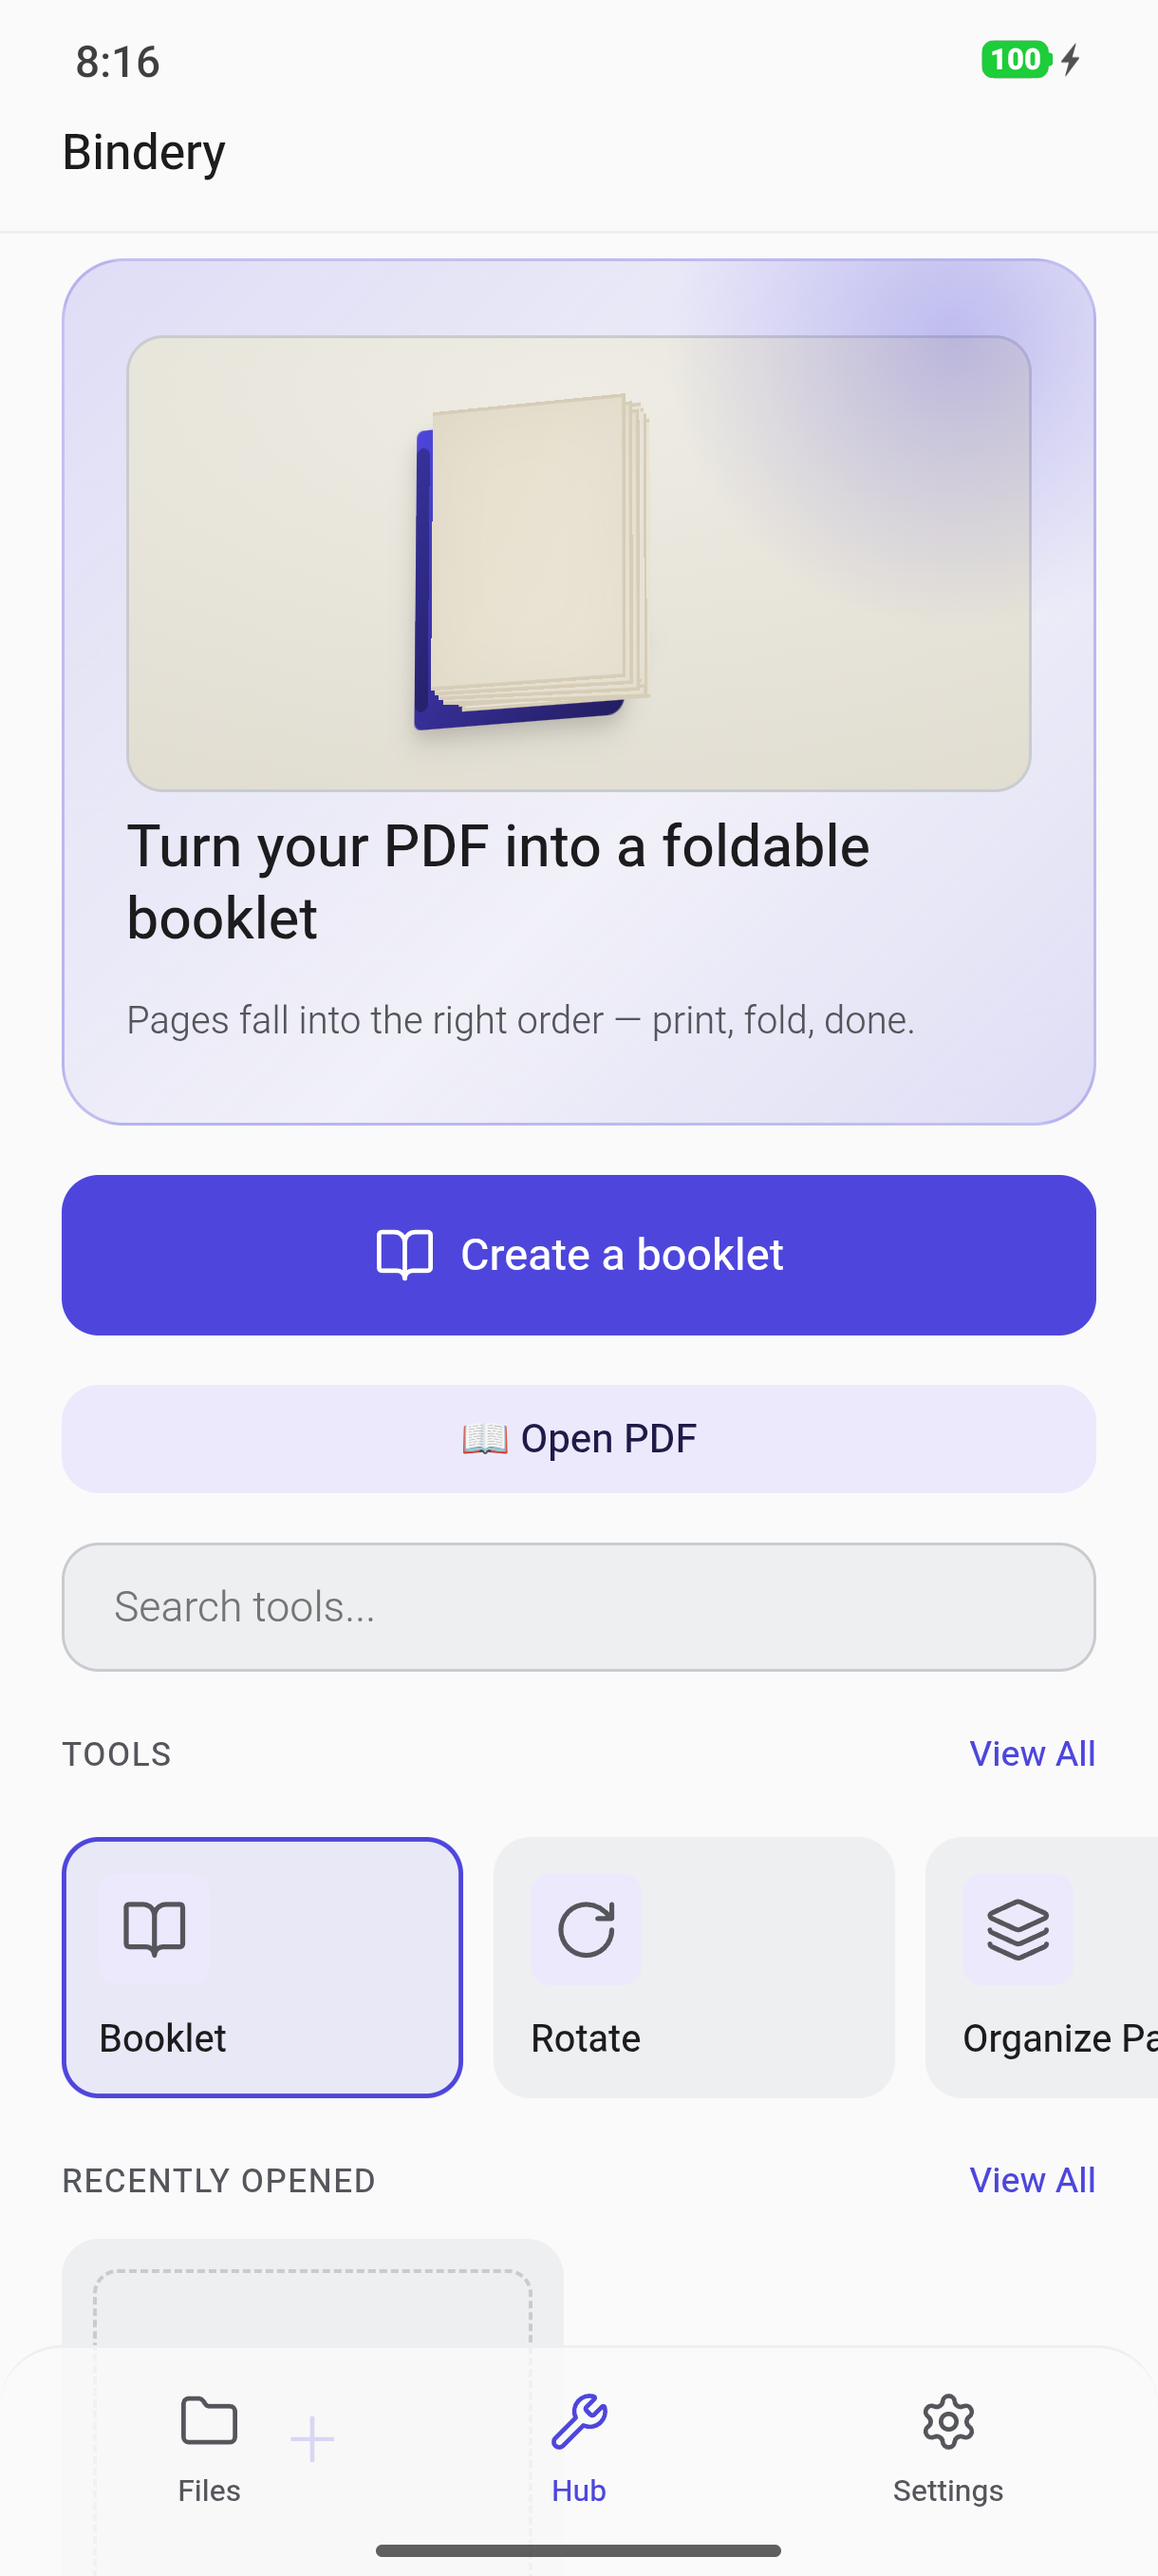
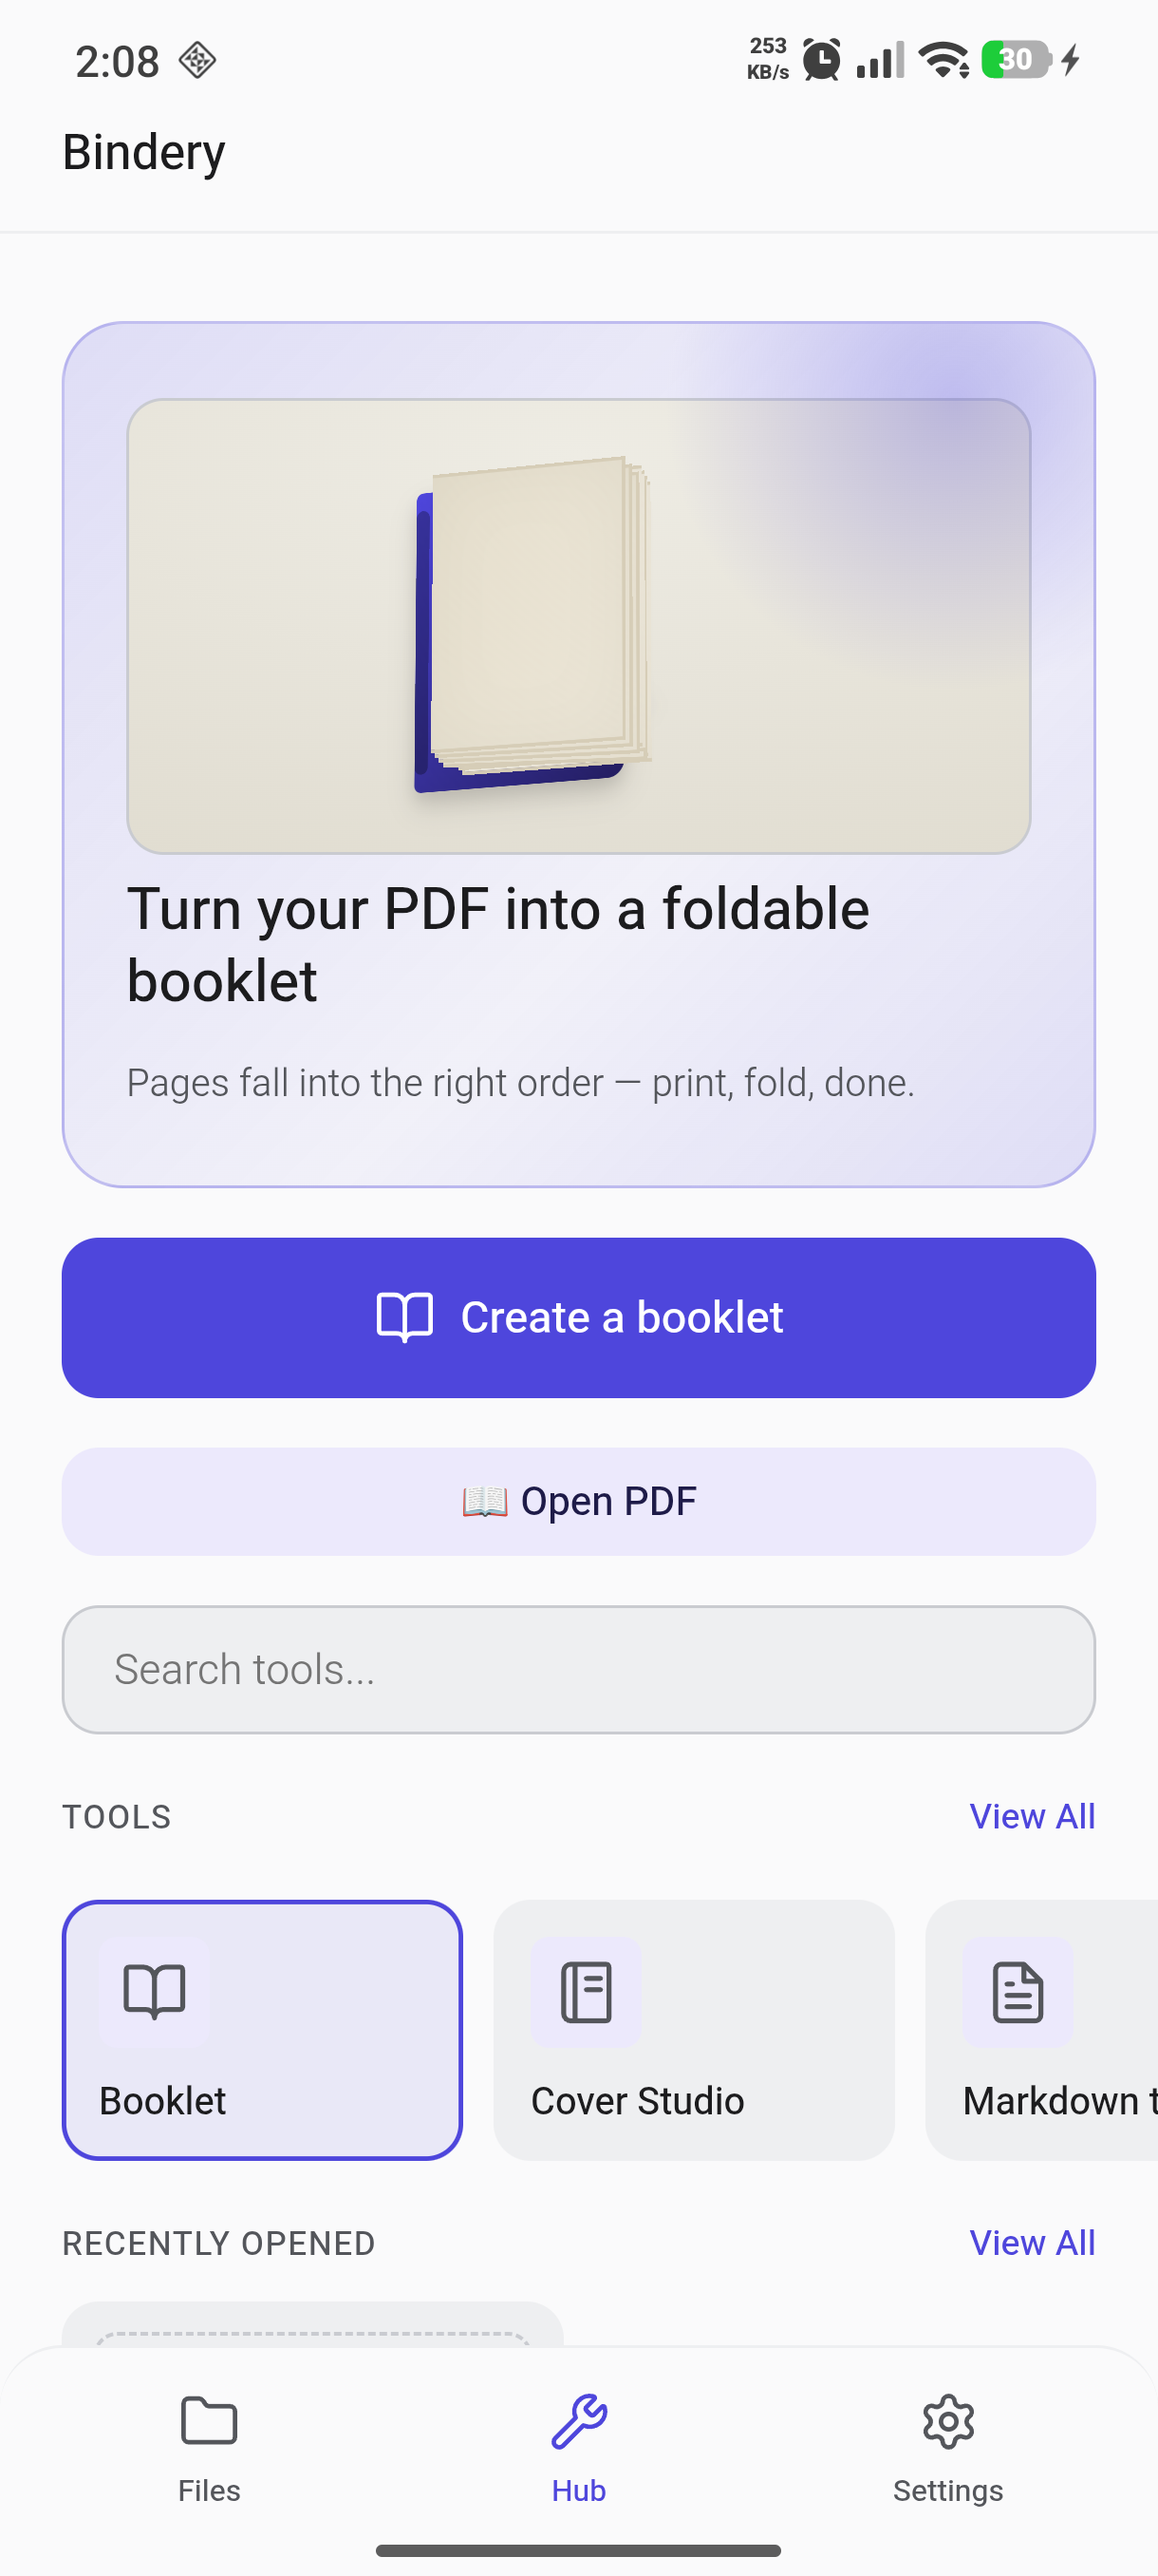
docs(readme): cover the 0.5.0 tools and say where to install the app
The README had not been touched since 0.4.6, so the two headline tools of the
release that is actually live — the Booklet Cover Studio and Markdown to
Booklet — were missing from a file that is the repository's shop window. It
also carried no install link at all, even though the app has been in the
public production channel since 0.4.3, which left a reader with nowhere to go
but a local Gradle build.

Both language sections now list the two tools and open with a Google Play
link. The home screenshot is retaken from the current build: the old one
predates the Hub carousel reordering and still showed Rotate and Organize
Pages where Cover Studio and Markdown now sit.

diff --git a/README.md b/README.md
@@ -11,6 +11,10 @@
 
 Bindery is a privacy-focused PDF toolkit for Android. Every core tool — booklet making, merging, page management, watermarking — runs entirely on your device.
 
+### Get it
+
+**[Bindery on Google Play](https://play.google.com/store/apps/details?id=com.eduplayconnect.bindery)** — or build it from this repository yourself, see [Development & Build](#development--build).
+
 ### Why Privacy-Focused?
 
 Every operation on your existing files — merging, page management, conversion, booklet making — happens **entirely locally, on your device's CPU**. Your files never leave your device; nothing is uploaded to a server, and nothing is shared with any analytics or tracking service. The one feature that touches the network is optional: importing a PDF from a URL you provide. Everything else stays local — and since Bindery is open source, you can verify that yourself.
@@ -25,6 +29,8 @@ Every operation on your existing files — merging, page management, conversion,
   - Optional assembly marks — a dashed fold guide, plus stepped spine marks whose even spacing breaks when a signature is missing or out of order
   - Reversed sheet order for printers with an automatic folding unit
   - Interactive "what is a signature?" explainer with a live 3D folding animation
+- **Booklet Cover Studio** — Front and back covers with the spine width computed from the sheet count, fold marks, theme palettes, and a two-sheet split cover for home A4 printers that cannot print a full wrap
+- **Markdown to Booklet** — Turns one or more `.md` files into a print-ready A5 booklet: headings, tables, code blocks and box-drawing diagrams, three calibrated type sizes (Compact 8pt / Standard 9.5pt / Comfortable 11pt), and optional recto chapter starts
 - **PDF Merge** — Combines multiple PDFs into a single file
 - **Page Management** — Add, delete, and reorder pages
 - **Page Rotation**
@@ -69,6 +75,10 @@ This project is licensed under **GPL-3.0**. See [`LICENSE`](LICENSE) for the ful
 
 Bindery, Android için gizlilik odaklı bir PDF araç setidir. Kitapçık oluşturma, birleştirme, sayfa düzenleme, filigran gibi tüm çekirdek araçlar tamamen cihazınızda çalışır.
 
+### Nereden indirilir
+
+**[Google Play'de Bindery](https://play.google.com/store/apps/details?id=com.eduplayconnect.bindery)** — ya da bu depodan kendiniz derleyebilirsiniz, bkz. [Geliştirme & Derleme](#geliştirme--derleme).
+
 ### Neden Gizlilik Odaklı?
 
 Var olan dosyalarınız üzerindeki tüm işlemler — birleştirme, sayfa düzenleme, dönüştürme, kitapçık oluşturma — **cihazınızın CPU'sunda, tamamen yerel olarak** gerçekleşir. Dosyalarınız hiçbir zaman cihazınızdan çıkmaz; hiçbir sunucuya yüklenmez, hiçbir analitik/izleme servisiyle paylaşılmaz. Ağa dokunan tek özellik opsiyoneldir: verdiğiniz bir URL'den PDF içe aktarma. Geri kalan her şey yerelde kalır — ve Bindery açık kaynak olduğu için bunu kendiniz doğrulayabilirsiniz.
@@ -83,6 +93,8 @@ Var olan dosyalarınız üzerindeki tüm işlemler — birleştirme, sayfa düze
   - İsteğe bağlı montaj işaretleri — kesikli katlama kılavuzu ve eksik ya da sırası bozuk imzada düzenli basamak aralığı bozulan sırt işaretleri
   - Otomatik katlama üniteli yazıcılar için ters yaprak sırası
   - Canlı 3B katlama animasyonuyla interaktif "imza nedir?" açıklaması
+- **Kitapçık Kapak Stüdyosu** — Ön ve arka kapak, yaprak sayısından sırt kalınlığının otomatik hesabı, katlama işaretleri, tema paletleri ve tam sarma kapak basamayan ev tipi A4 yazıcılar için iki yapraklı bölünmüş kapak
+- **Markdown'dan Kitapçık** — Bir ya da daha fazla `.md` dosyasını basıma hazır A5 kitapçığa dönüştürür: başlıklar, tablolar, kod blokları ve kutu çizgili şemalar; üç kalibre edilmiş punto (Kompakt 8pt / Standart 9,5pt / Rahat 11pt) ve istenirse bölümleri tek sayfadan başlatma
 - **PDF Birleştir** — Birden fazla PDF'i tek dosyada birleştirir
 - **Sayfa Yönetimi** — Sayfa ekleme, silme, yeniden sıralama
 - **Sayfa Döndürme**
